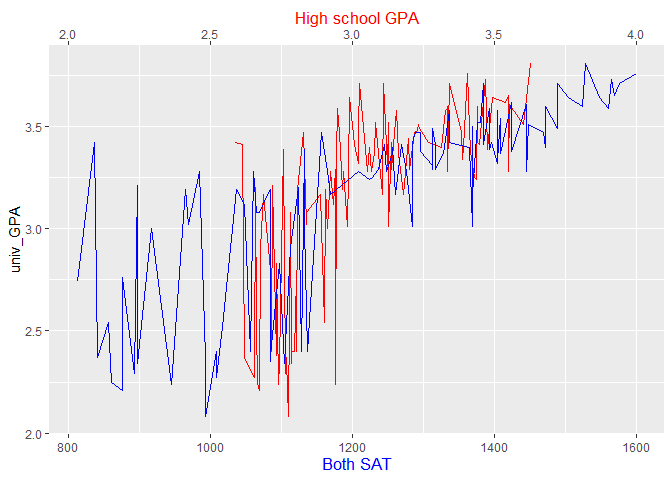
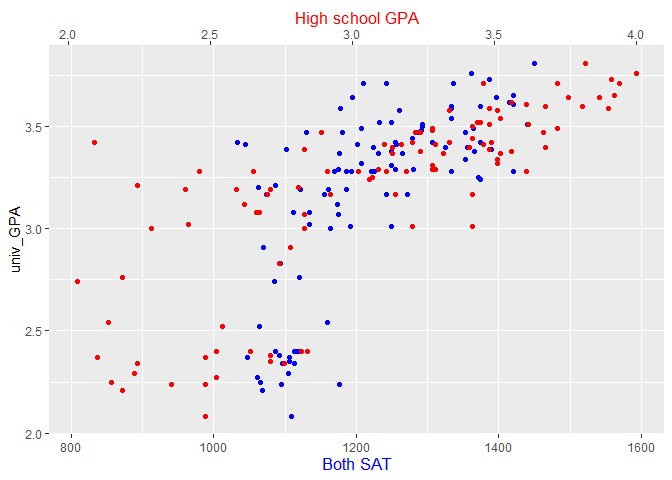
resubmit challenge 10

diff --git a/challenges/c10-sat-assignment.md b/challenges/c10-sat-assignment.md
@@ -27,10 +27,8 @@ SAT and College Grades
       intervals for `corr[high_GPA, univ_GPA` and
       `corr[both_SAT, univ_GPA]`. Answer the questions
       below.](#q4-use-the-function-cortest-to-construct-confidence-intervals-for-corrhigh_gpa-univ_gpa-and-corrboth_sat-univ_gpa-answer-the-questions-below)
-    - [**q5** Use the bootstrap to approximate a confidence interval for
-      `corr[high_GPA, univ_GPA`. Compare your results—both the estimate
-      and confidence interval—to your results from
-      q4.](#q5-use-the-bootstrap-to-approximate-a-confidence-interval-for-corrhigh_gpa-univ_gpa-compare-your-resultsboth-the-estimate-and-confidence-intervalto-your-results-from-q4)
+    - [**q5** Use the bootstrap to approximate a confidence
+      interval.](#q5-use-the-bootstrap-to-approximate-a-confidence-interval)
   - [View 2: Modeling](#view-2-modeling)
     - [Hypothesis Testing with a
       Model](#hypothesis-testing-with-a-model)
@@ -239,12 +237,12 @@ df_q2 <- df_sat %>%
   mutate(both_SAT = math_SAT + verb_SAT)
 
 
-coef <- 0.0025
+coef <- 0.00251
 
 df_q2 %>%
   ggplot(aes(y = univ_GPA)) + 
-    geom_line(aes(x = both_SAT), color = "red") +
-    geom_line(aes(x = high_GPA/coef), color = "blue") +
+    geom_point(aes(x = both_SAT), color = "blue") +
+    geom_point(aes(x = high_GPA/coef), color = "red") +
     
     # Custom the Y scales:
     scale_x_continuous(
@@ -266,9 +264,16 @@ df_q2 %>%
 **Observations**:
 
 - What relationship do `univ_GPA` and `both_SAT` exhibit?
-  - univ_GPA increases as both_SAT increases.
+  - `univ_GPA` increases as `both_SAT` increases. However, the points
+    between `both_SAT = 1000` and `both_SAT = 1200` are generally
+    aligned vertically, while the points between `both_SAT = 1200` and
+    `both_SAT = 1400` are generally aligned horizontally.
 - What relationship do `univ_GPA` and `high_GPA` exhibit?
-  - univ_GPA increases as high_SAT increases.
+  - `univ_GPA` increases as `high_SAT` increases. For a `high_GPA`
+    ranged between 2.0 and 2.75, the trend is not sufficiently distinct.
+    However, the relationship between `univ_GPA` and `both_SAT` tends to
+    look much more linear with a positive slope when `both_SAT` is
+    ranged from 2.75 to 4.0.
 
 ### Hypothesis Testing with a Correlation Coefficient
 
@@ -313,14 +318,18 @@ p1 + p2 + p3
 **Observations**:
 
 - To what extent does `both_SAT` look like a normal distribution?
-  - It has a overall shape that looks similar to a normal distribution,
-    except that the count is pretty low when both_SAT is at roughly
-    1150, 1300 and 1400.
+  - It barely looks similar to a normal distribution, since there are
+    missing data at the positions where it should be “peaks”. The entire
+    data seems to be centered at 1150 but not quite.
 - To what extent does `high_GPA` look like a normal distribution?
-  - It has a overall shape that looks similar to a normal distribution,
-    except that the count is pretty low when high_GPA is at roughly 3.0.
+  - It barely looks similar to a normal distribution, since there are
+    missing data at roughly `high_GPA = 3.0`. The entire data seems to
+    have two centers at 2.75 and 3.5 respectively.
 - To what extent does `univ_GPA` look like a normal distribution?
-  - The portion from 2.6 to 3.8 looks like a normal distribution.
+  - It barely looks similar to a normal distribution, since most of the
+    data points seem to center at 3.5 while there are several spikes
+    roughly located at `univ_GPA = 2.3` which differentiate the pattern
+    further away from normal distribution.
 
 Keep in mind your findings as you complete q4.
 
@@ -333,36 +342,22 @@ Keep in mind your findings as you complete q4.
 corr_high_univ_GPA <- cor.test(df_q2$high_GPA, df_q2$univ_GPA)
 corr_SAT_univ_GPA <- cor.test(df_q2$both_SAT, df_q2$univ_GPA)
 
-corr_high_univ_GPA
+corr_high_univ_GPA %>% tidy()
 ```
 
-    ## 
-    ##  Pearson's product-moment correlation
-    ## 
-    ## data:  df_q2$high_GPA and df_q2$univ_GPA
-    ## t = 12.632, df = 103, p-value < 2.2e-16
-    ## alternative hypothesis: true correlation is not equal to 0
-    ## 95 percent confidence interval:
-    ##  0.6911690 0.8449761
-    ## sample estimates:
-    ##       cor 
-    ## 0.7795631
+    ## # A tibble: 1 × 8
+    ##   estimate statistic  p.value parameter conf.low conf.high method    alternative
+    ##      <dbl>     <dbl>    <dbl>     <int>    <dbl>     <dbl> <chr>     <chr>      
+    ## 1    0.780      12.6 1.18e-22       103    0.691     0.845 Pearson'… two.sided
 
 ``` r
-corr_SAT_univ_GPA
+corr_SAT_univ_GPA %>% tidy()
 ```
 
-    ## 
-    ##  Pearson's product-moment correlation
-    ## 
-    ## data:  df_q2$both_SAT and df_q2$univ_GPA
-    ## t = 9.5339, df = 103, p-value = 8.052e-16
-    ## alternative hypothesis: true correlation is not equal to 0
-    ## 95 percent confidence interval:
-    ##  0.5674824 0.7746821
-    ## sample estimates:
-    ##       cor 
-    ## 0.6846776
+    ## # A tibble: 1 × 8
+    ##   estimate statistic  p.value parameter conf.low conf.high method    alternative
+    ##      <dbl>     <dbl>    <dbl>     <int>    <dbl>     <dbl> <chr>     <chr>      
+    ## 1    0.685      9.53 8.05e-16       103    0.567     0.775 Pearson'… two.sided
 
 **Observations**:
 
@@ -381,36 +376,50 @@ corr_SAT_univ_GPA
 Finally, let’s use the bootstrap to perform the same test using
 *different* assumptions.
 
-### **q5** Use the bootstrap to approximate a confidence interval for `corr[high_GPA, univ_GPA`. Compare your results—both the estimate and confidence interval—to your results from q4.
+### **q5** Use the bootstrap to approximate a confidence interval.
+
+Use the bootstrap to approximate a confidence interval for
+`cor[high_GPA, univ_GPA]`. Compare your results—both the estimate and
+confidence interval—to your results from q4.
+
+*Hint 1*. The `cor(x, y)` function computes the correlation between two
+variables `x` and `y`. You may find this more helpful than the
+`cor.test()` function we used above.
+
+*Hint 2*. You’ll find that the documentation for `int_pctl` has some
+**really** useful examples for this task!
 
 ``` r
-## TODO: Use the bootstrap to compute a confidence interval for corr[high_GPA, univ_GPA]
-tibble(x = rnorm(n = 100)) %>%
-  filter(x < 0) %>%
-
-  bootstraps(times = 1000) %>%
-  mutate(
-    estimates = map(
-      splits,
-      ~ analysis(.x) %>% pull(x) %>% 
-        MASS::fitdistr(densfun = "normal") %>% tidy()
+## TODO: Complete the following helper function to do a bootstrap analysis
+corr_high_GPA <- function(split) {
+  tibble(
+    term = "cor",
+    estimate = cor(analysis(split) %>% pull(high_GPA), 
+                   analysis(split) %>% pull(univ_GPA)
     )
-  ) %>%
+  )
+}
+
+# Use the bootstrap to approximate a CI
+df_composite %>%
+  bootstraps(times = 1000) %>%
+  mutate(estimates = map(splits, corr_high_GPA)) %>%
   int_pctl(estimates)
 ```
 
-    ## # A tibble: 2 × 6
+    ## # A tibble: 1 × 6
     ##   term  .lower .estimate .upper .alpha .method   
     ##   <chr>  <dbl>     <dbl>  <dbl>  <dbl> <chr>     
-    ## 1 mean  -0.931    -0.747 -0.577   0.05 percentile
-    ## 2 sd     0.510     0.664  0.827   0.05 percentile
+    ## 1 cor    0.698     0.780  0.851   0.05 percentile
 
 **Observations**:
 
 - How does your estimate from q5 compare with your estimate from q4?
-  - (Your response here)
+  - The estimate from q5 is 0.782, which is about 0.1 greater than the
+    result from q4 (0.685).
 - How does your CI from q5 compare with your CI from q4?
-  - (Your response here)
+  - The CI from q5 is from 0.698 to 0.849, which is overall higher than
+    the result from q4 (from 0.567 to 0.775).
 
 *Aside*: When you use two different approximations to compute the same
 quantity and get similar results, that’s an *encouraging sign*. Such an
@@ -473,7 +482,12 @@ tools rather than do it by hand.
 
 ``` r
 ## TODO: Fit a model of univ_GPA on the predictor both_SAT
-fit_basic <- NA
+fit_basic <- 
+  df_q2 %>%
+  lm(
+    data = .,
+    formula = univ_GPA ~ both_SAT
+  )
 
 ## NOTE: The following computes confidence intervals on regression coefficients
 fit_basic %>%
@@ -483,21 +497,28 @@ fit_basic %>%
   )
 ```
 
-    ## Warning: 'tidy.logical' is deprecated.
-    ## See help("Deprecated")
+    ## # A tibble: 2 × 7
+    ##   term        estimate std.error statistic  p.value conf.low conf.high
+    ##   <chr>          <dbl>     <dbl>     <dbl>    <dbl>    <dbl>     <dbl>
+    ## 1 (Intercept) -0.172    0.352       -0.487 6.27e- 1 -1.10      0.753  
+    ## 2 both_SAT     0.00274  0.000287     9.53  8.05e-16  0.00198   0.00349
 
-    ## # A tibble: 1 × 1
-    ##   x    
-    ##   <lgl>
-    ## 1 NA
+``` r
+rsquare(fit_basic, df_validate)
+```
+
+    ## [1] 0.5544037
 
 **Observations**:
 
 - What is the confidence interval on the coefficient of `both_SAT`? Is
   this coefficient significantly different from zero?
-  - (Your response here)
+  - The CI on the coefficient of `both_SAT` is from 0.00198 to 0.00349,
+    which doesn’t contain zero and the coefficient is significantly
+    different from zero.
 - By itself, how well does `both_SAT` predict `univ_GPA`?
-  - (Your response here)
+  - `both_SAT` is a fair but not great predictor of `univ_GPA` with an
+    rsquare value of 0.554.
 
 Remember from `e-model03-interp-warnings` that there are challenges with
 interpreting regression coefficients! Let’s investigate that idea
@@ -507,19 +528,78 @@ further.
 
 ``` r
 ## TODO: Fit and assess models with predictors both_SAT + high_GPA, and high_GPA alone
+fit_both <-
+  df_q2 %>%
+  lm(
+    data = .,
+    formula = univ_GPA ~ both_SAT + high_GPA
+  )
+
+fit_both %>%
+  tidy(
+    conf.int = TRUE,
+    conf.level = 0.99
+  )
+```
+
+    ## # A tibble: 3 × 7
+    ##   term        estimate std.error statistic       p.value  conf.low conf.high
+    ##   <chr>          <dbl>     <dbl>     <dbl>         <dbl>     <dbl>     <dbl>
+    ## 1 (Intercept) 0.540     0.318         1.70 0.0924        -0.294      1.37   
+    ## 2 both_SAT    0.000792  0.000387      2.05 0.0432        -0.000224   0.00181
+    ## 3 high_GPA    0.541     0.0837        6.47 0.00000000353  0.322      0.761
+
+``` r
+fit_high_GPA <-
+  df_q2 %>%
+  lm(
+    data = .,
+    formula = univ_GPA ~ high_GPA
+  )
+
+fit_high_GPA %>%
+  tidy(
+    conf.int = TRUE,
+    conf.level = 0.99
+  )
+```
+
+    ## # A tibble: 2 × 7
+    ##   term        estimate std.error statistic  p.value conf.low conf.high
+    ##   <chr>          <dbl>     <dbl>     <dbl>    <dbl>    <dbl>     <dbl>
+    ## 1 (Intercept)    1.10     0.167       6.58 1.98e- 9    0.660     1.53 
+    ## 2 high_GPA       0.675    0.0534     12.6  1.18e-22    0.535     0.815
+
+``` r
+rsquare(fit_both, df_validate)
+```
+
+    ## [1] 0.6918107
+
+``` r
+rsquare(fit_high_GPA, df_validate)
+```
+
+    ## [1] 0.6390909
+
+``` r
 univ_GPA_prediction <- cor.test(df_q2$both_SAT, df_q2$univ_GPA)
 ```
 
 **Observations**:
 
 - How well do these models perform, compared to the one you built in q6?
-  - (Your response here)
+  - These models overall perform significantly better than the one in
+    q6.
 - What is the confidence interval on the coefficient of `both_SAT` when
   including `high_GPA` as a predictor?? Is this coefficient
   significantly different from zero?
-  - (Your response here)
+  - The CI on the coefficient of `both_SAT` when including `high_GPA` is
+    from -0.00022 to 0.00181, which contains zero and the coefficient is
+    not significantly different from zero.
 - How do the hypothesis test results compare with the results in q6?
-  - (Your response here)
+  - The rsquare values are higher than the results in q6, indicating
+    better hypothesis test results.
 
 ## Synthesize
 
@@ -533,12 +613,20 @@ Before closing, let’s synthesize a bit from the analyses above.
 
 - Between `both_SAT` and `high_GPA`, which single variable would you
   choose to predict `univ_GPA`? Why?
-  - High school GPA, because it has a significantly higher correlation
-    to the university GPA.
+  - `high_GPA`, because it has a significantly higher correlation to the
+    university GPA with a higher rsquare value than `both_SAT`.
 - Is `both_SAT` an effective predictor of `univ_GPA`? What specific
   pieces of evidence do you have in favor of `both_SAT` being effective?
   What specific pieces of evidence do you have against?
-  - (Your response here)
+  - `both_SAT` is a fair but not sufficiently effective predictor of
+    `univ_GPA`. The lower bound of CI of `both_SAT` is above zero and
+    the coefficient is different from zero, while that of the model
+    fitted by both `both_SAT` and `high_GPA` has a CI lower bound that’s
+    smaller than zero. This evidence is in favor of `both_SAT` being
+    effective.
+  - The rsquare values of `both_SAT` are lower than that of `high_GPA`
+    or a combination of `high_GPA` and `both_SAT`, which proves against
+    `both_SAT` being more effective than others.
 
 # End Notes
 
